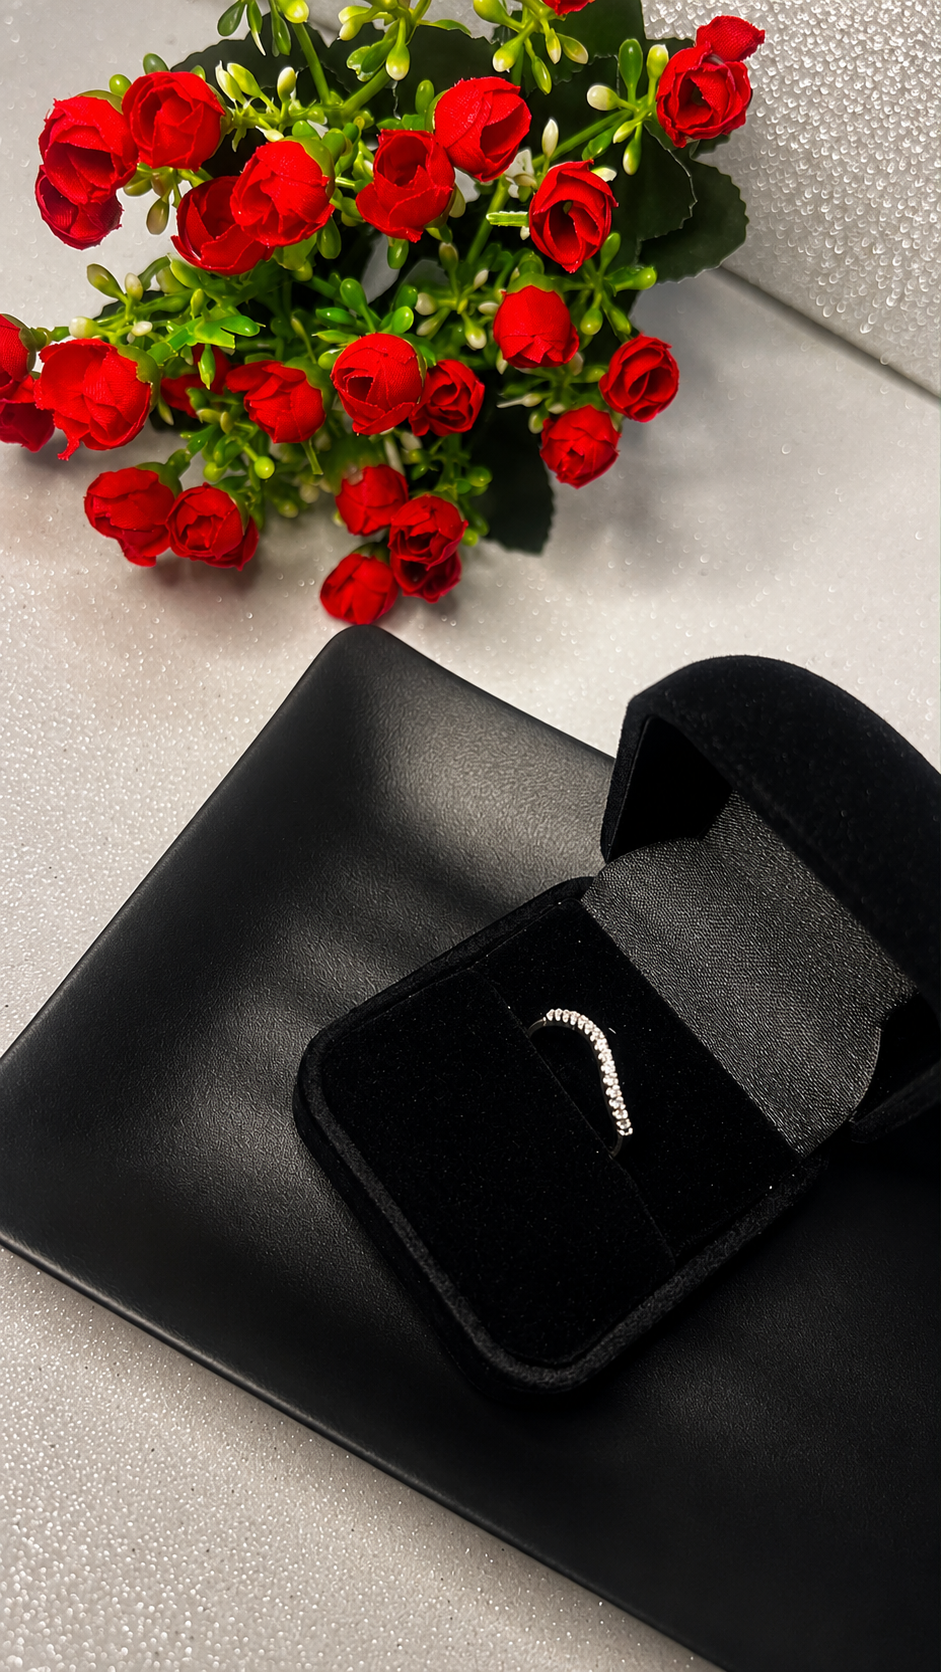
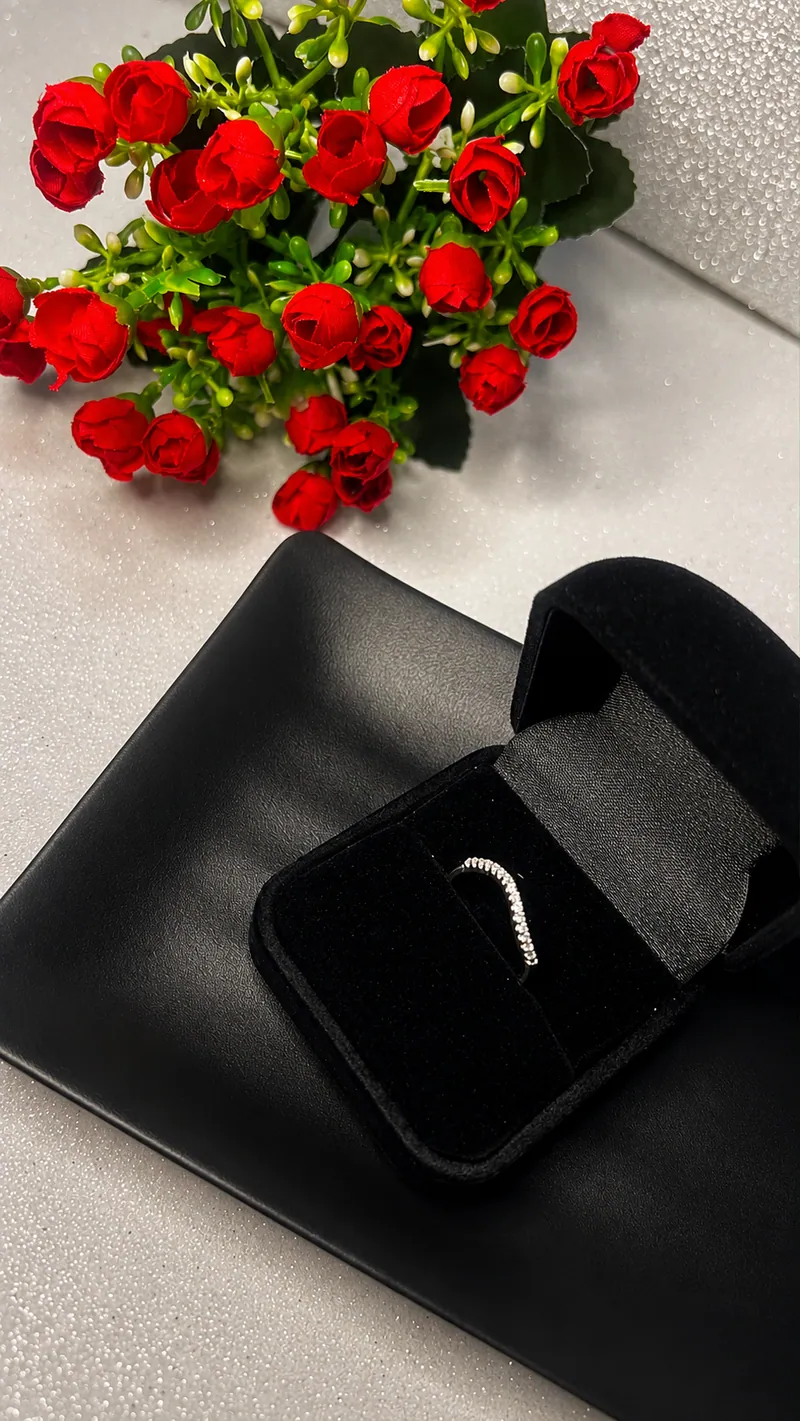
otimiza imagens e carregamento dos produtos

Changed region(s): [[0.75, 0.5883, 0.9062, 0.6812], [0.6562, 0.5264, 0.7188, 0.5883]]

diff --git a/src/data/products.ts b/src/data/products.ts
@@ -23,10 +23,10 @@ export const products: Product[] = [
   material: 'Prata 925 legítima',
   warranty: '2 anos',
 
-  image: '/colar-ponto-de-luz-lilas-02.png',
+  image: '/colar-ponto-de-luz-lilas-02.webp',
 
   images: [
-    '/colar-ponto-de-luz-lilas-02.png',
+    '/colar-ponto-de-luz-lilas-02.webp',
     '/colar-lavanda-caixa.jpeg',
   ],
 },
@@ -47,8 +47,8 @@ export const products: Product[] = [
     isLancamento: true,
     material: 'Prata 925 legítima',
     warranty: '2 anos',
-    image: '/colar-infinito-prata-925.png',
-    images: ['/colar-infinito-prata-925.png'],
+    image: '/colar-infinito-prata-925.webp',
+    images: ['/colar-infinito-prata-925.webp'],
   },
   {
     id: '3',
@@ -358,11 +358,11 @@ material: 'Prata 925 legítima',
   material: 'Prata 925 legítima',
   warranty: '2 anos',
 
-  image: '/conjunto-bolinhas-prata-925.png',
+  image: '/conjunto-bolinhas-prata-925.webp',
 
   images: [
-    '/conjunto-bolinhas-prata-925..webp',
-    '/conjunto-perola-caixa.png',
+    '/conjunto-bolinhas-prata-925.webp',
+    '/conjunto-perola-caixa.webp',
   ],
 },
   {

diff --git a/src/components/ProductCard.tsx b/src/components/ProductCard.tsx
@@ -22,6 +22,10 @@ export default function ProductCard({ product }: ProductCardProps) {
             <img
               src={product.image}
               alt={product.name}
+              width={800}
+              height={1000}
+              loading="lazy"
+              decoding="async"
               className="block h-full w-full object-cover transition-transform duration-700 group-hover:scale-105"
             />
           ) : (
@@ -73,7 +77,7 @@ export default function ProductCard({ product }: ProductCardProps) {
           )}
         </div>
 
-                {product.price > 0 && (
+        {product.price > 0 && (
           <div className="mb-3 border-t border-brand-soft-rose/10 pt-2.5">
             {product.variants && product.variants.length > 0 && (
               <span className="mb-1 block text-[9px] font-semibold uppercase tracking-[0.15em] text-brand-dark-rose">

diff --git a/src/components/EditorialSection.tsx b/src/components/EditorialSection.tsx
@@ -126,7 +126,7 @@ export default function EditorialSection() {
 >
   <div className="relative aspect-[4/5] w-full overflow-hidden rounded-xs bg-neutral-100">
     <img
-      src="/editorial-aneis-modelo-realista.webp"
+      src="//editorial-aneis-modelo-realista-otimizado.webp"
       alt="Mão de modelo usando anéis em Prata 925"
       loading="lazy"
       decoding="async"

diff --git a/src/components/Categories.tsx b/src/components/Categories.tsx
@@ -40,7 +40,7 @@ export default function Categories({
     {
       key: 'conjuntos',
       label: 'Conjuntos',
-      image: '/colecao-conjuntos.png',
+      image: '/colecao-conjuntos.webp',
       imageClassName: 'scale-100 object-center',
     },
     {
